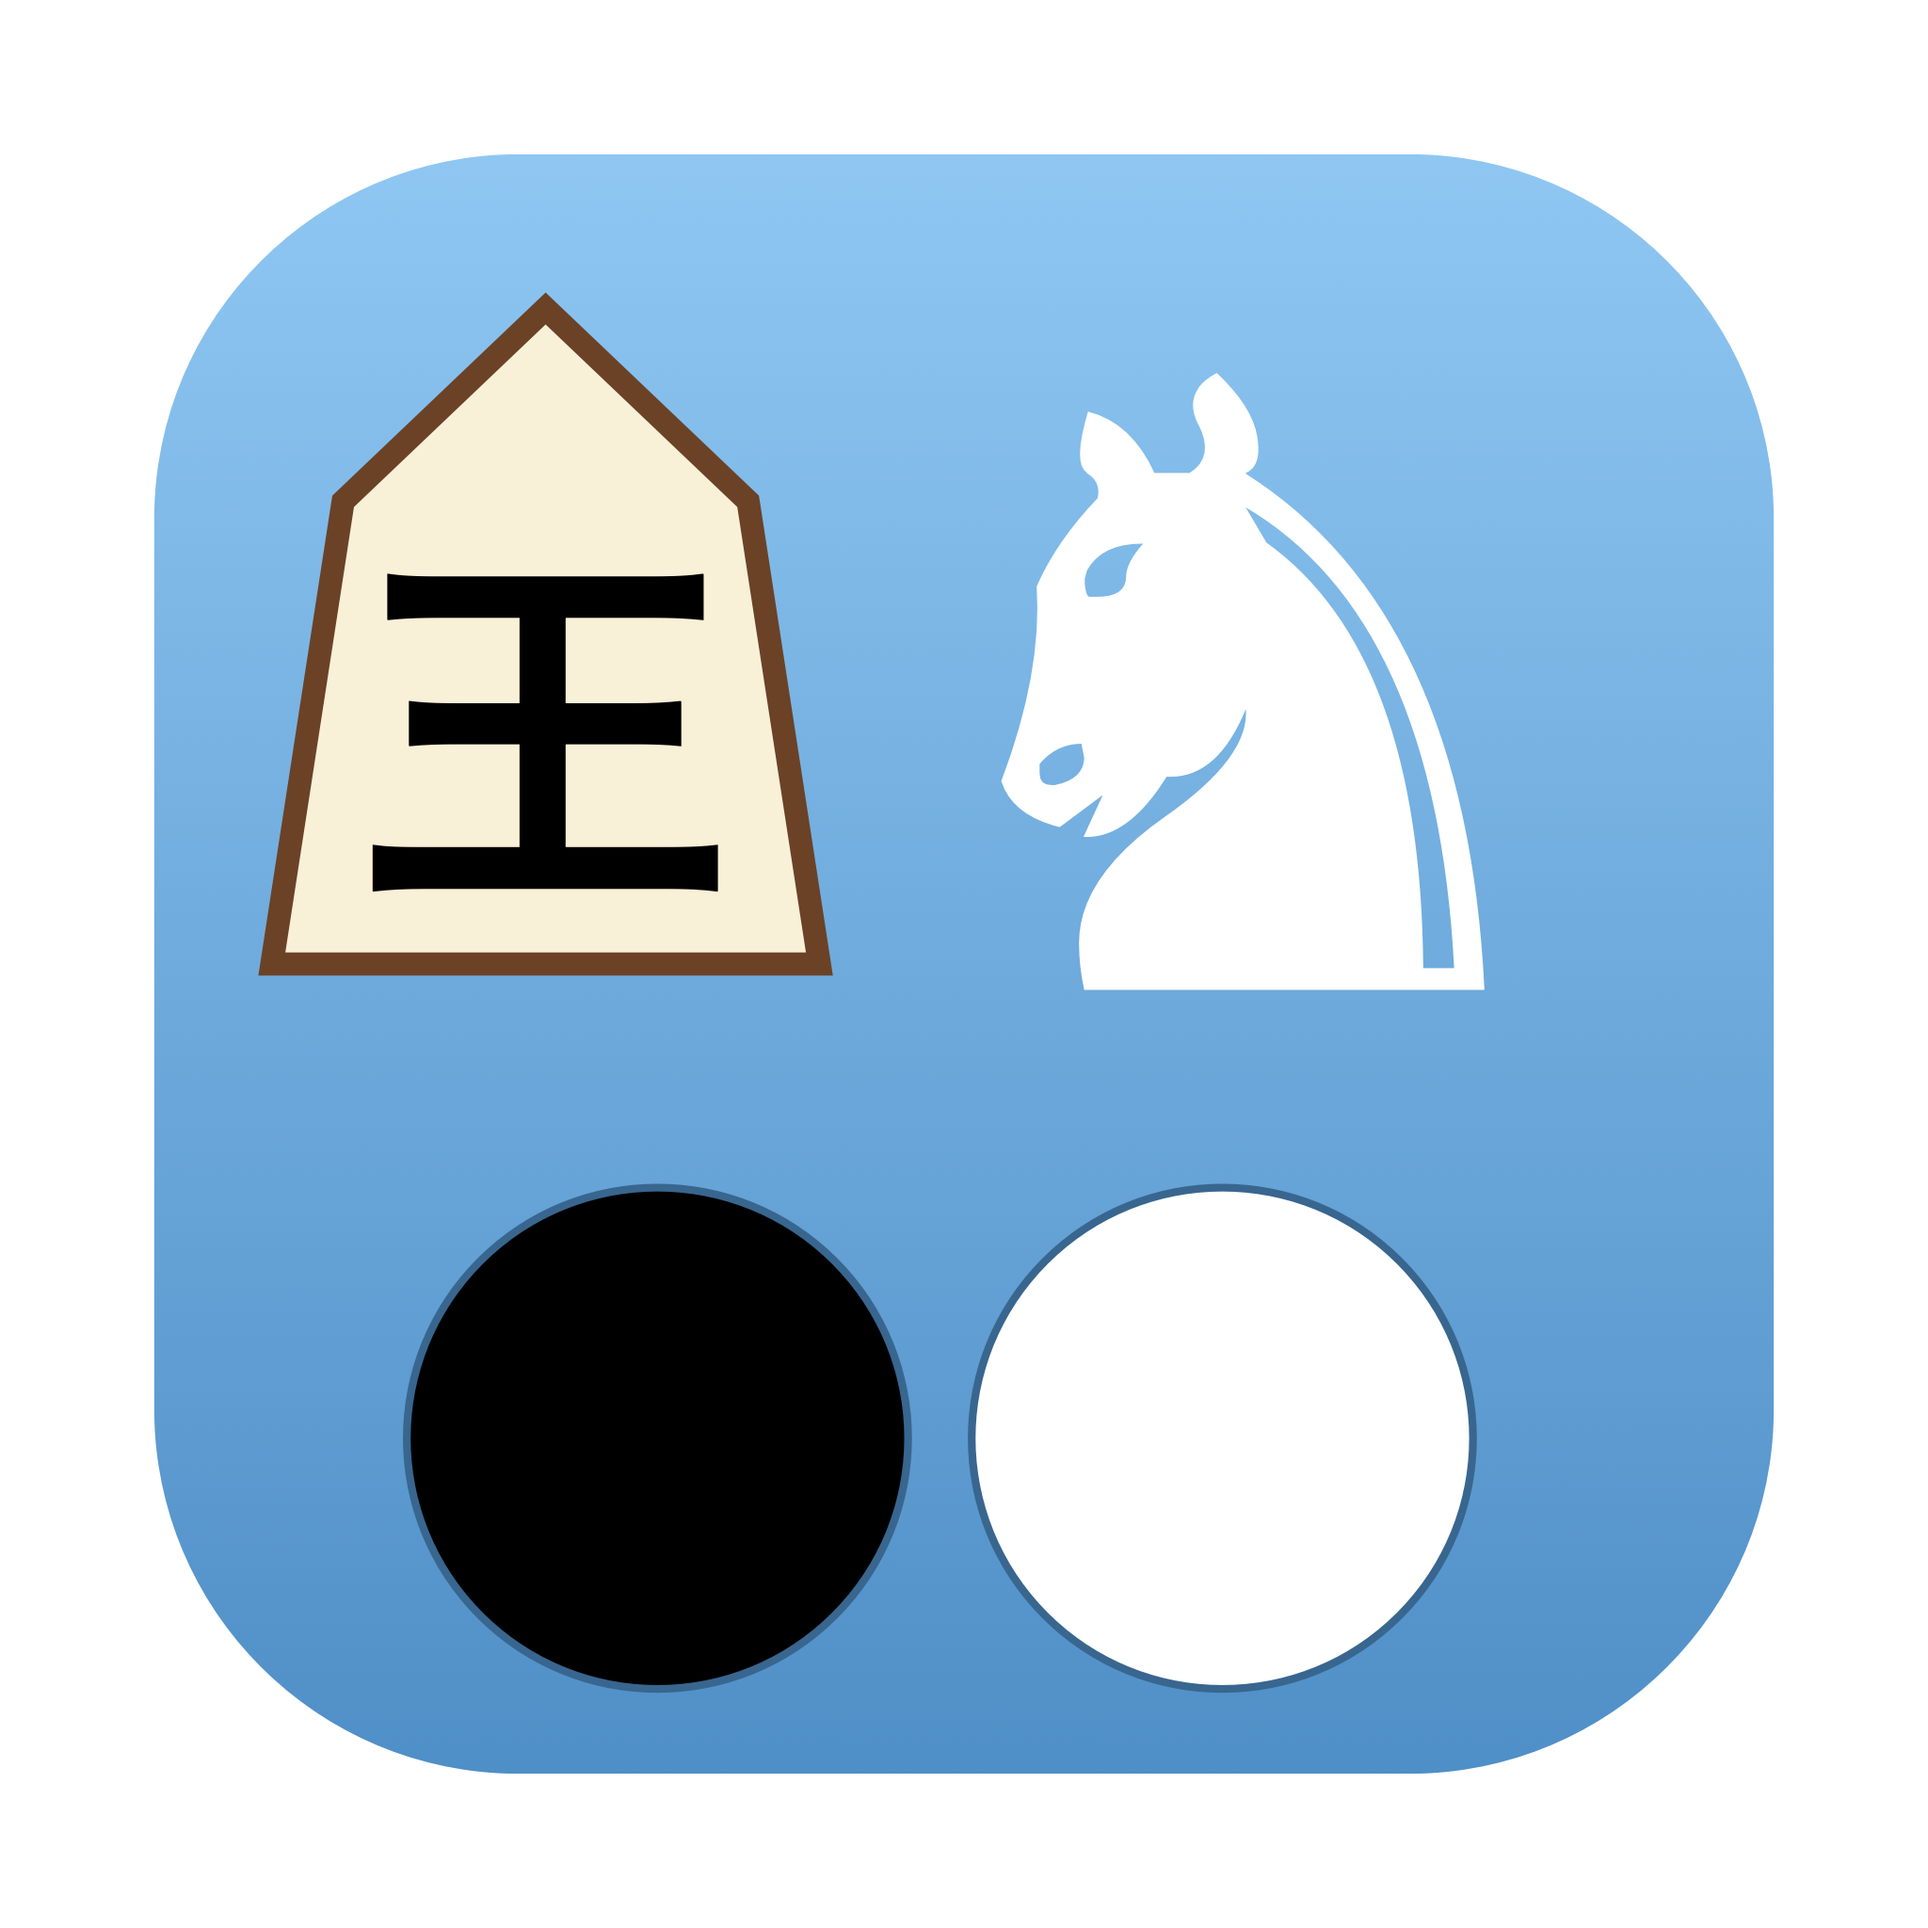
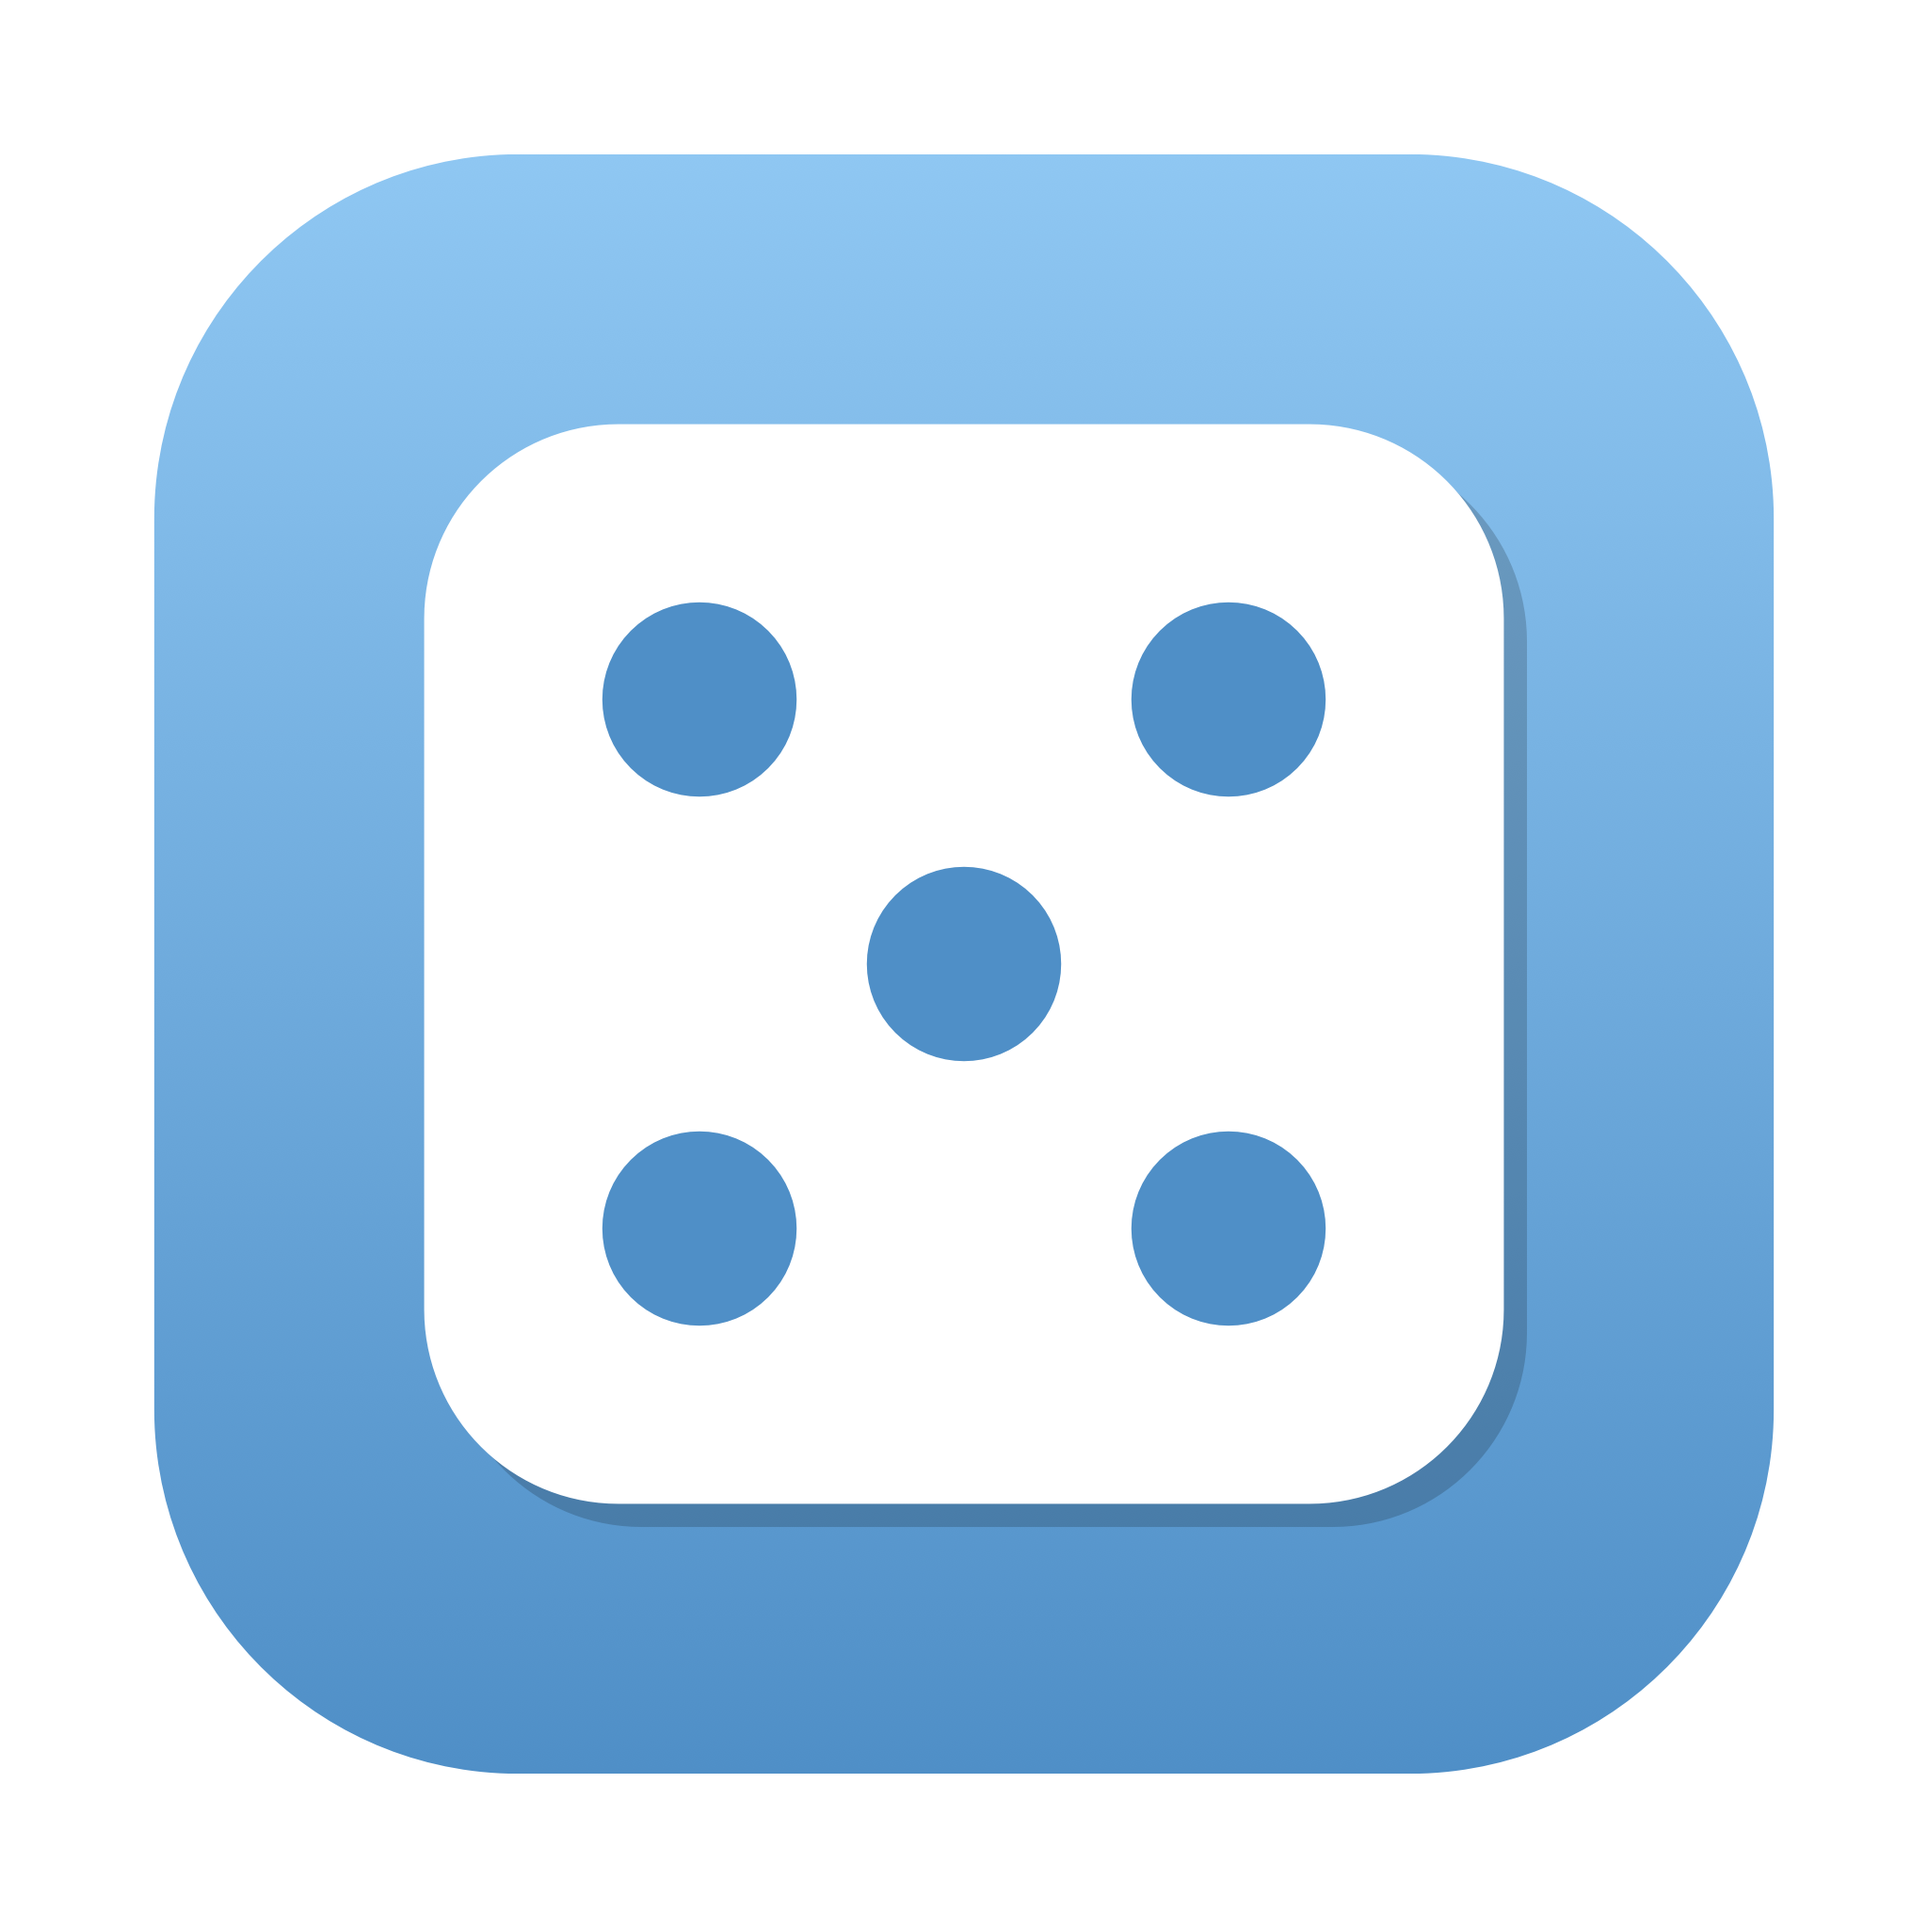
boardgames: アプリアイコンをサイコロ(5の目)デザインに変更

diff --git a/boardgames/make-icon.swift b/boardgames/make-icon.swift
@@ -1,5 +1,5 @@
 #!/usr/bin/env swift
-// 薄い青グラデーション背景に、将棋駒・チェスナイト・碁石(黒白)を描いたアプリアイコンを生成する。
+// 薄い青グラデーション背景に、白いサイコロ(5の目)を描いたアプリアイコンを生成する。
 //   実行: swift make-icon.swift   →  Resources/AppIcon.png (2048x2048) を出力
 // build.sh の build_icns() がこのマスター PNG から iconset/icns を都度生成するので、
 // ここでは iconset/icns は作らない。
@@ -8,11 +8,9 @@ import AppKit
 let blueTop = NSColor(srgbRed: 0.56, green: 0.78, blue: 0.95, alpha: 1)    // #8FC7F2
 let blueBottom = NSColor(srgbRed: 0.31, green: 0.56, blue: 0.78, alpha: 1) // #4F8FC7
 
-let cream = NSColor(srgbRed: 0.976, green: 0.941, blue: 0.847, alpha: 1) // #F9F0D8
-let brown = NSColor(srgbRed: 0.42, green: 0.26, blue: 0.15, alpha: 1)    // 駒の縁
 let white = NSColor.white
-let black = NSColor.black
-let stoneStroke = NSColor(srgbRed: 0.22, green: 0.40, blue: 0.56, alpha: 1)
+let pipBlue = NSColor(srgbRed: 0.31, green: 0.56, blue: 0.78, alpha: 1)   // 目の色(背景の青と揃える)
+let dieShadow = NSColor(white: 0, alpha: 0.18)
 
 func renderIcon(pixels: Int) -> NSBitmapImageRep {
     let rep = NSBitmapImageRep(
@@ -35,72 +33,39 @@ func renderIcon(pixels: Int) -> NSBitmapImageRep {
     let gradient = NSGradient(colors: [blueTop, blueBottom])!
     gradient.draw(in: bgPath, angle: -90)
 
-    // 将棋駒(左上): 五角形(先細り、末広がり)
-    let cx1 = s * 0.283
-    let yTop = s * 0.84
-    let yShoulder = s * 0.74
-    let yBottom = s * 0.50
-    let halfBottomW = s * 0.142
-    let halfShoulderW = s * 0.105
-
-    let koma = NSBezierPath()
-    koma.move(to: NSPoint(x: cx1, y: yTop))
-    koma.line(to: NSPoint(x: cx1 + halfShoulderW, y: yShoulder))
-    koma.line(to: NSPoint(x: cx1 + halfBottomW, y: yBottom))
-    koma.line(to: NSPoint(x: cx1 - halfBottomW, y: yBottom))
-    koma.line(to: NSPoint(x: cx1 - halfShoulderW, y: yShoulder))
-    koma.close()
-    cream.setFill()
-    koma.fill()
-    brown.setStroke()
-    koma.lineWidth = s * 0.012
-    koma.stroke()
-
-    let kanji = "王"
-    let kanjiFont = NSFont(name: "HiraginoSans-W6", size: s * 0.2) ?? NSFont.boldSystemFont(ofSize: s * 0.2)
-    let kanjiAttrs: [NSAttributedString.Key: Any] = [.font: kanjiFont, .foregroundColor: black]
-    let kanjiStr = NSAttributedString(string: kanji, attributes: kanjiAttrs)
-    let kanjiSize = kanjiStr.size()
-    kanjiStr.draw(at: NSPoint(x: cx1 - kanjiSize.width / 2, y: (yBottom + yShoulder) / 2 - kanjiSize.height / 2))
-
-    // チェスナイト(右上)
-    let cx2 = s * 0.645
-    let cy2 = s * 0.675
-    let knightText = "♞"
-    let knightFont = NSFont.systemFont(ofSize: s * 0.5)
-    let knightAttrs: [NSAttributedString.Key: Any] = [.font: knightFont]
-    let knightStr = NSAttributedString(string: knightText, attributes: knightAttrs)
-    let knightSize = knightStr.size()
-    let knightOrigin = NSPoint(x: cx2 - knightSize.width / 2, y: cy2 - knightSize.height / 2)
+    // サイコロ(白、5の目)を中央に正面向きで配置
+    let dieSide = s * 0.56
+    let dieRadius = dieSide * 0.18
+    let dieRect = NSRect(x: -dieSide / 2, y: -dieSide / 2, width: dieSide, height: dieSide)
+    let diePath = NSBezierPath(roundedRect: dieRect, xRadius: dieRadius, yRadius: dieRadius)
 
     g.saveGState()
-    g.beginTransparencyLayer(auxiliaryInfo: nil)
-    knightStr.draw(at: knightOrigin)
-    g.setBlendMode(.sourceIn)
-    g.setFillColor(white.cgColor)
-    g.fill(CGRect(x: 0, y: 0, width: s, height: s))
-    g.endTransparencyLayer()
+    g.translateBy(x: s / 2, y: s / 2)
+
+    // 落ち影
+    g.saveGState()
+    g.translateBy(x: s * 0.012, y: -s * 0.012)
+    dieShadow.setFill()
+    diePath.fill()
     g.restoreGState()
 
-    // 碁石(下段): 黒石・白石
-    let stoneR = s * 0.13
-    let stoneY = s * 0.254
-    let blackCx = s * 0.341
-    let whiteCx = s * 0.634
-
-    let blackStone = NSBezierPath(ovalIn: NSRect(x: blackCx - stoneR, y: stoneY - stoneR, width: stoneR * 2, height: stoneR * 2))
-    black.setFill()
-    blackStone.fill()
-    stoneStroke.setStroke()
-    blackStone.lineWidth = s * 0.004
-    blackStone.stroke()
-
-    let whiteStone = NSBezierPath(ovalIn: NSRect(x: whiteCx - stoneR, y: stoneY - stoneR, width: stoneR * 2, height: stoneR * 2))
     white.setFill()
-    whiteStone.fill()
-    stoneStroke.setStroke()
-    whiteStone.lineWidth = s * 0.004
-    whiteStone.stroke()
+    diePath.fill()
+
+    // 目(5の目): 四隅+中央
+    let pipR = dieSide * 0.09
+    let pipOffset = dieSide * 0.245
+    let pipCenters = [
+        NSPoint(x: -pipOffset, y: pipOffset), NSPoint(x: pipOffset, y: pipOffset),
+        NSPoint(x: 0, y: 0),
+        NSPoint(x: -pipOffset, y: -pipOffset), NSPoint(x: pipOffset, y: -pipOffset),
+    ]
+    pipBlue.setFill()
+    for c in pipCenters {
+        let pip = NSBezierPath(ovalIn: NSRect(x: c.x - pipR, y: c.y - pipR, width: pipR * 2, height: pipR * 2))
+        pip.fill()
+    }
+    g.restoreGState()
 
     NSGraphicsContext.restoreGraphicsState()
     return rep
